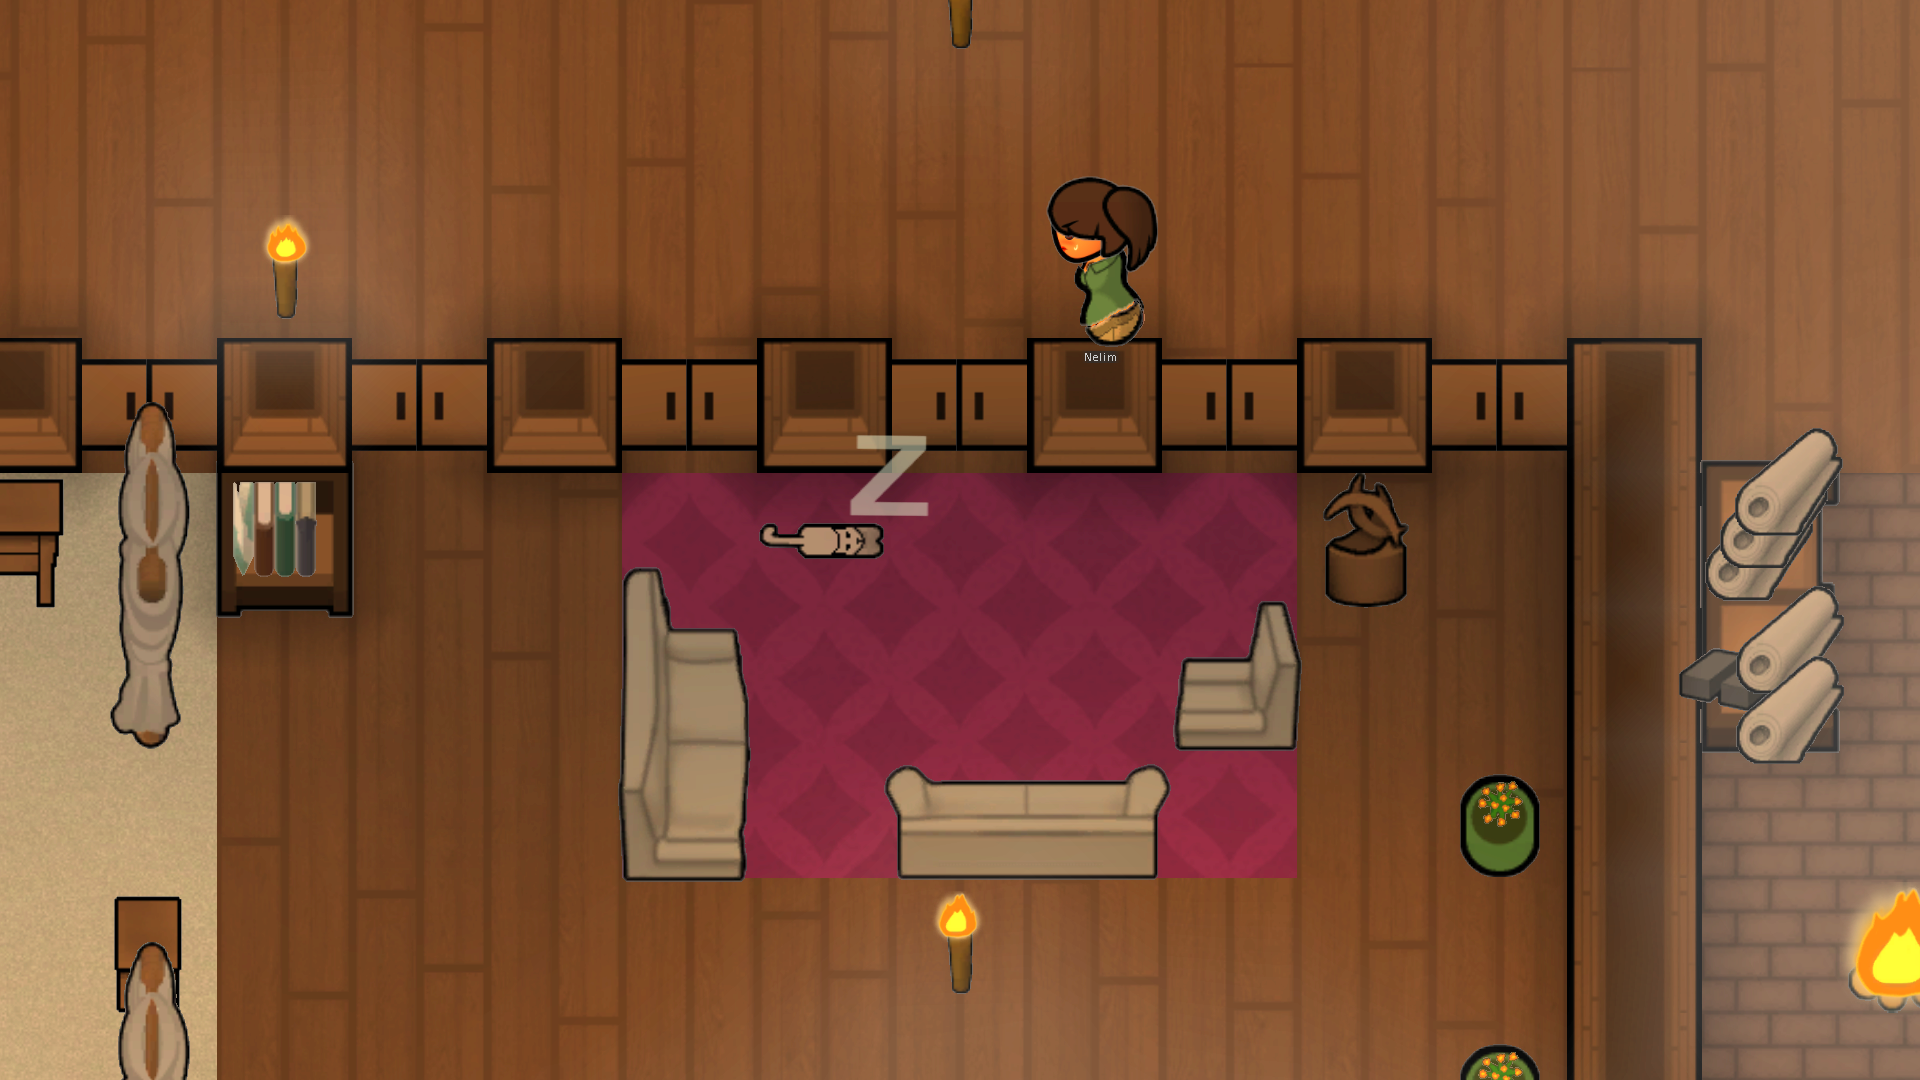
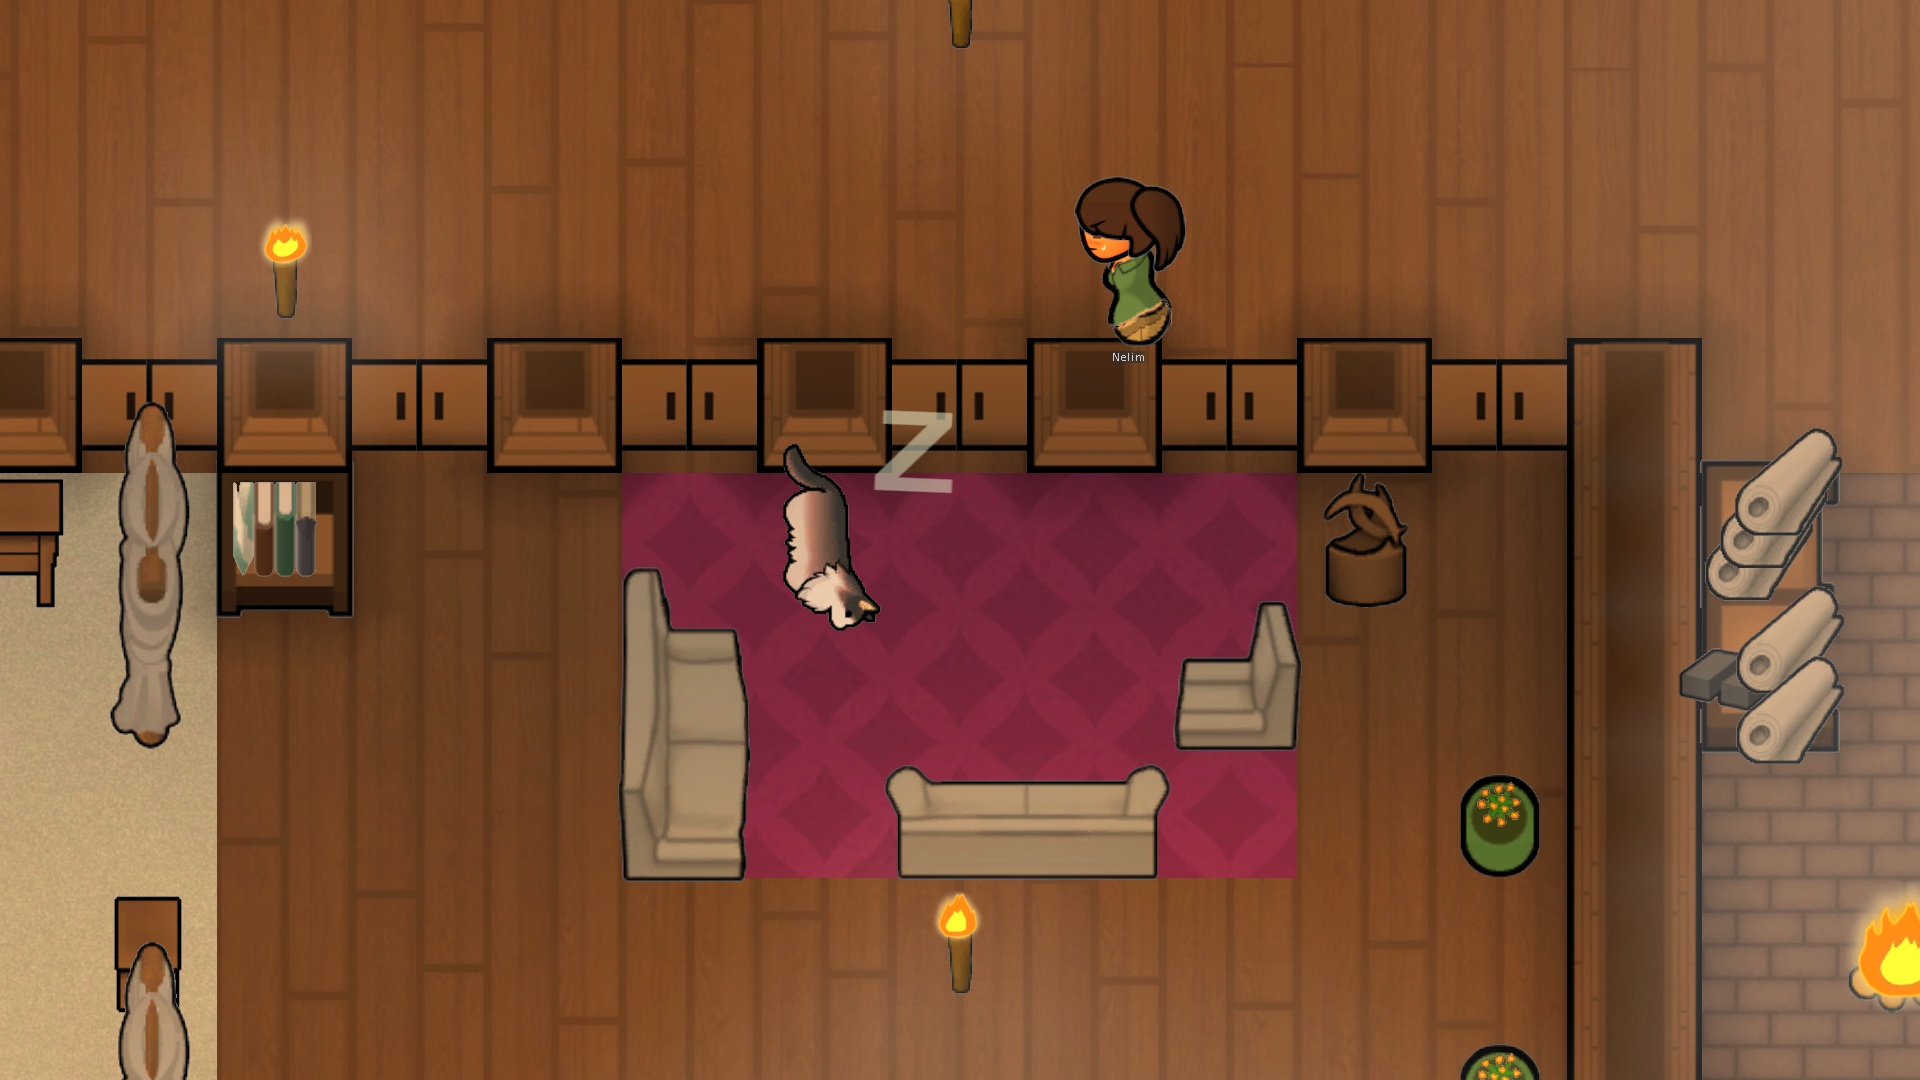
docs: inbox sorted, galerie-13 cat (Tama) replaces cat candidate

diff --git a/STATUS.md b/STATUS.md
@@ -370,4 +370,4 @@ Open 2026-10-24 (galerie-12, 7545, read): exit 1, 3 passed 1 failed. Shot 1 feed
 
 State 2026-10-25 (watch-out): galerie-13 (e7d9, 07-galerie workshop 1, 3, 4, commit e90f940) pending in the queue, evidence Tests/Pickle/Inbox/galerie-13. Changes since galerie-12: smile (MouthSmile, LidCheerful) in 1 and 3, MouthLipsTinySmile in 4, cat of 3 is Tama (akaNEKO_N_Forest_Cat, Let's Have a Cat! Continued 3682940618 added to wsl-deps.galerie.map), pollution cleared in 1 (NPT lead for the tint), `the animal "bear" has food at 0 percent` in 4. Unverified: akaNEKO kind name, MouthSmile resolving with the VTE pack, smile surviving the 30 walk ticks, NPT steps b1413ce never played. Plan rated 4.5 / 4 / 4.5 (mean 4.3, rate-gallery 2026-10-25). Candidate Art/Gallery/3-candidate-cat-asleep.png is from galerie-12 (vanilla cat), to be replaced by the galerie-13 capture. On RUN_DONE: summary.json, each capture against the plan, then reindex, Art/Gallery-clean, Add-Subtitle, echo review.
 
-Open 2026-10-29 (galerie-13, e7d9, read at resume): exit 1, 2 passed 1 failed. Shot 1 feed round: grey tint left of and under the elephant persists (pollution step did not clear it), animals spread wide, Nelim face reads as a flat orange blob (smile not visible): refused again. Shot 3 cat asleep: cat lying with Z on the rug, Nelim passes behind the bookcase row, kept as candidate pending the owner (face again a flat blob, smile not visible). Shot 4 grizzly FAILED at `"Nelim" stands at (190, 87) facing West`: "the cell (190, 87) is not standable": pick a standable cell next to the bear. Inbox/galerie-13 kept (screenshots). Next: fix cell for shot 4, ask NPT about the tint and the faces, refile shots 1 and 4.
+Open 2026-10-29 (galerie-13, e7d9, read at resume): exit 1, 2 passed 1 failed. Shot 1 feed round: grey tint left of and under the elephant persists (pollution step did not clear it), animals spread wide, Nelim face reads as a flat orange blob (smile not visible): refused again. Shot 3 cat asleep: cat lying with Z on the rug, Nelim passes behind the bookcase row, kept as candidate pending the owner (face again a flat blob, smile not visible). Shot 4 grizzly FAILED at `"Nelim" stands at (190, 87) facing West`: "the cell (190, 87) is not standable": pick a standable cell next to the bear. Inbox sorted 2026-10-29 (TM relay): galerie-11, 12, 13 all red and studied, deleted; the galerie-13 cat capture (Tama) copied over Art/Gallery/3-candidate-cat-asleep.png (replaces the vanilla-cat one), shot 1 capture refused and deleted, Inbox empty. Next: fix cell for shot 4, ask NPT about the tint and the faces, refile shots 1 and 4.
